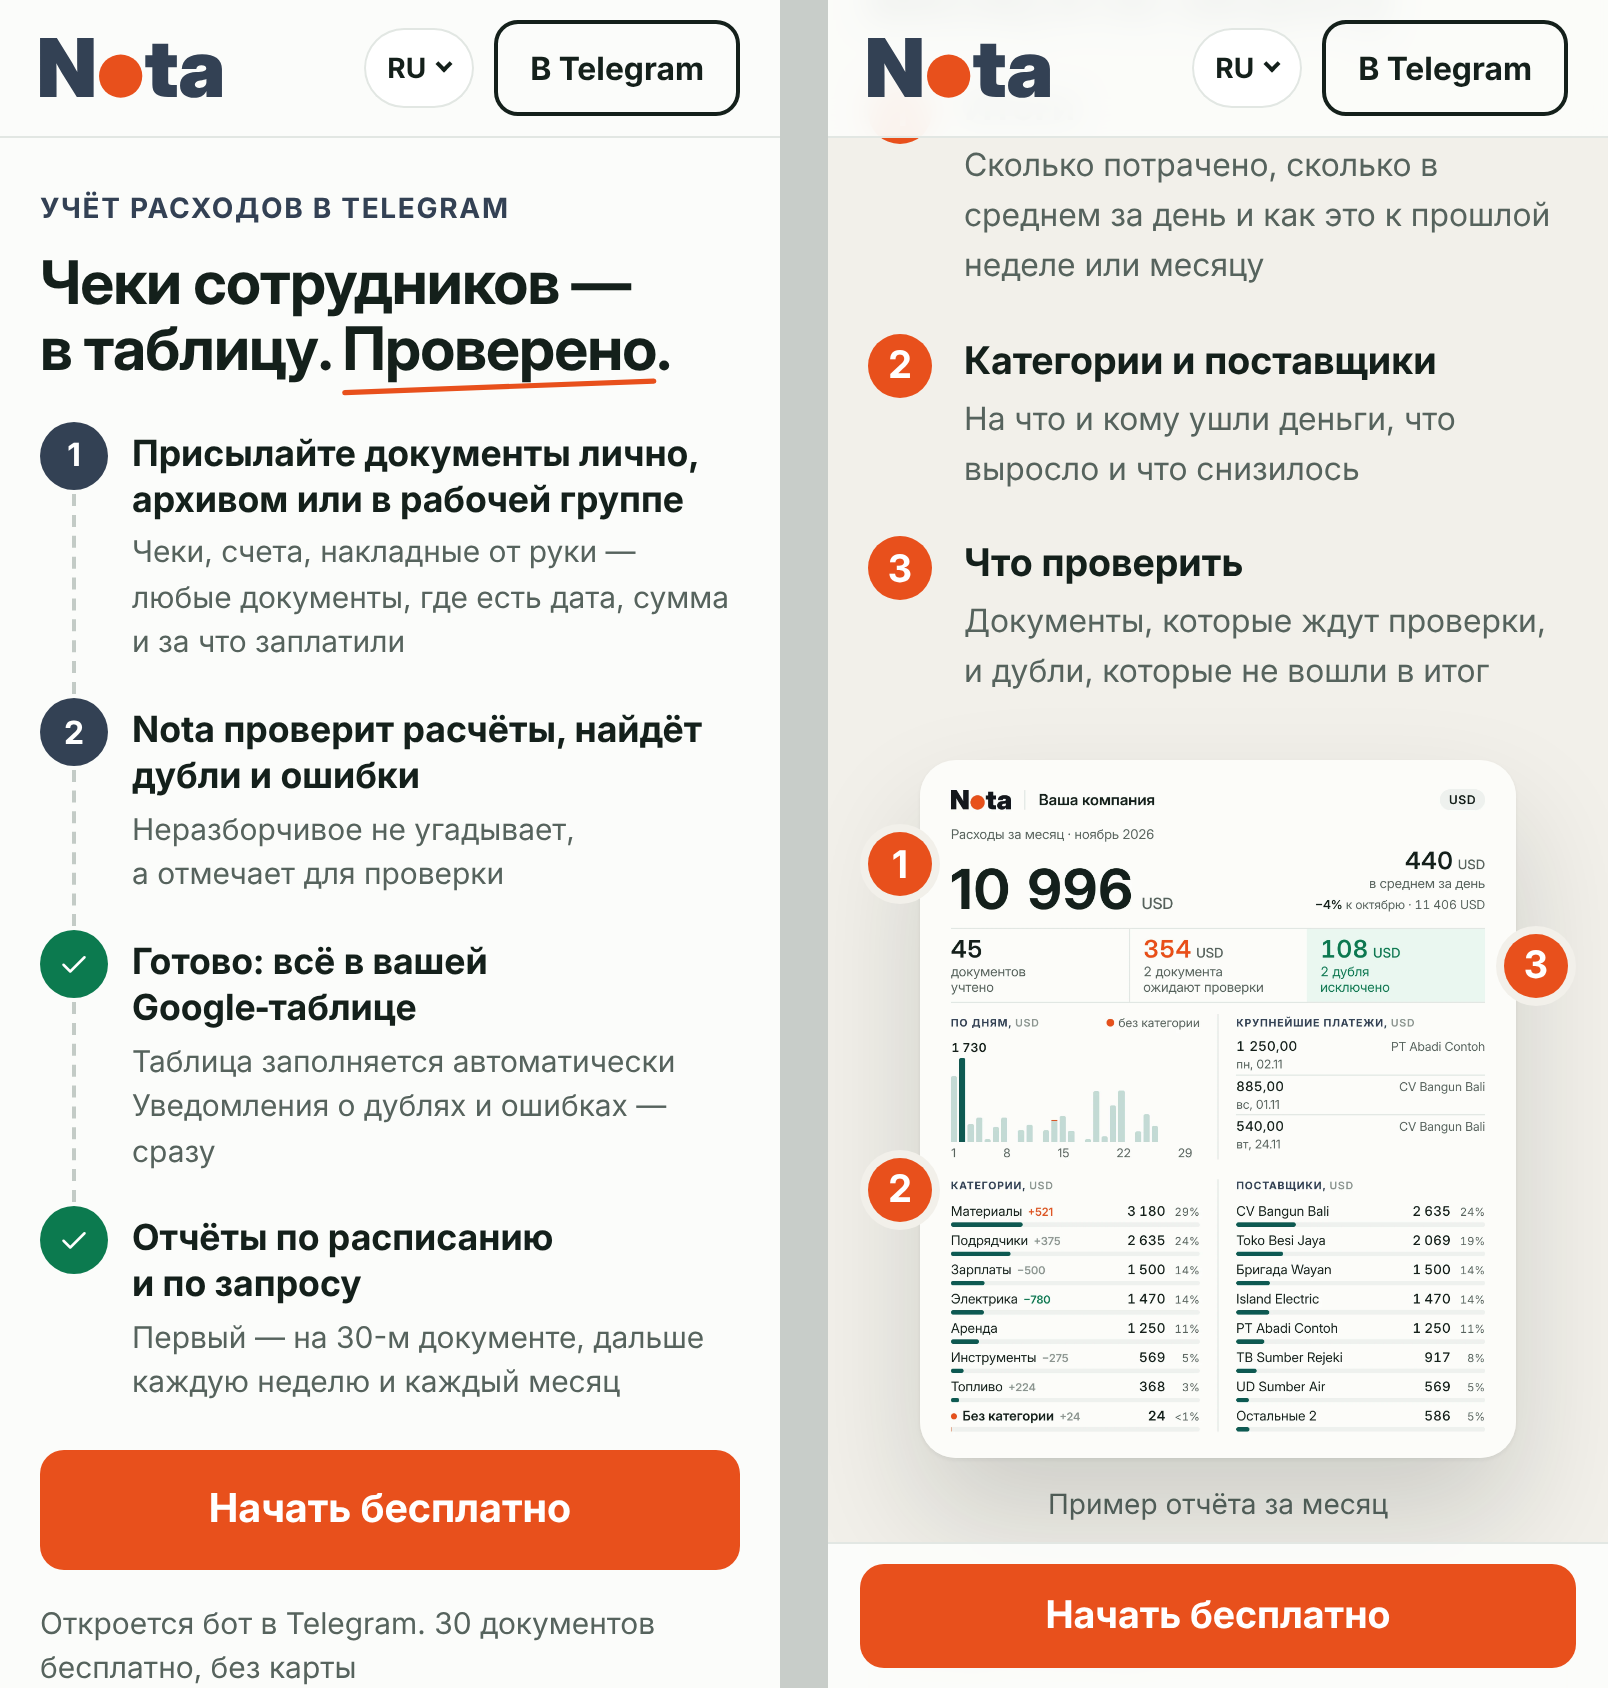
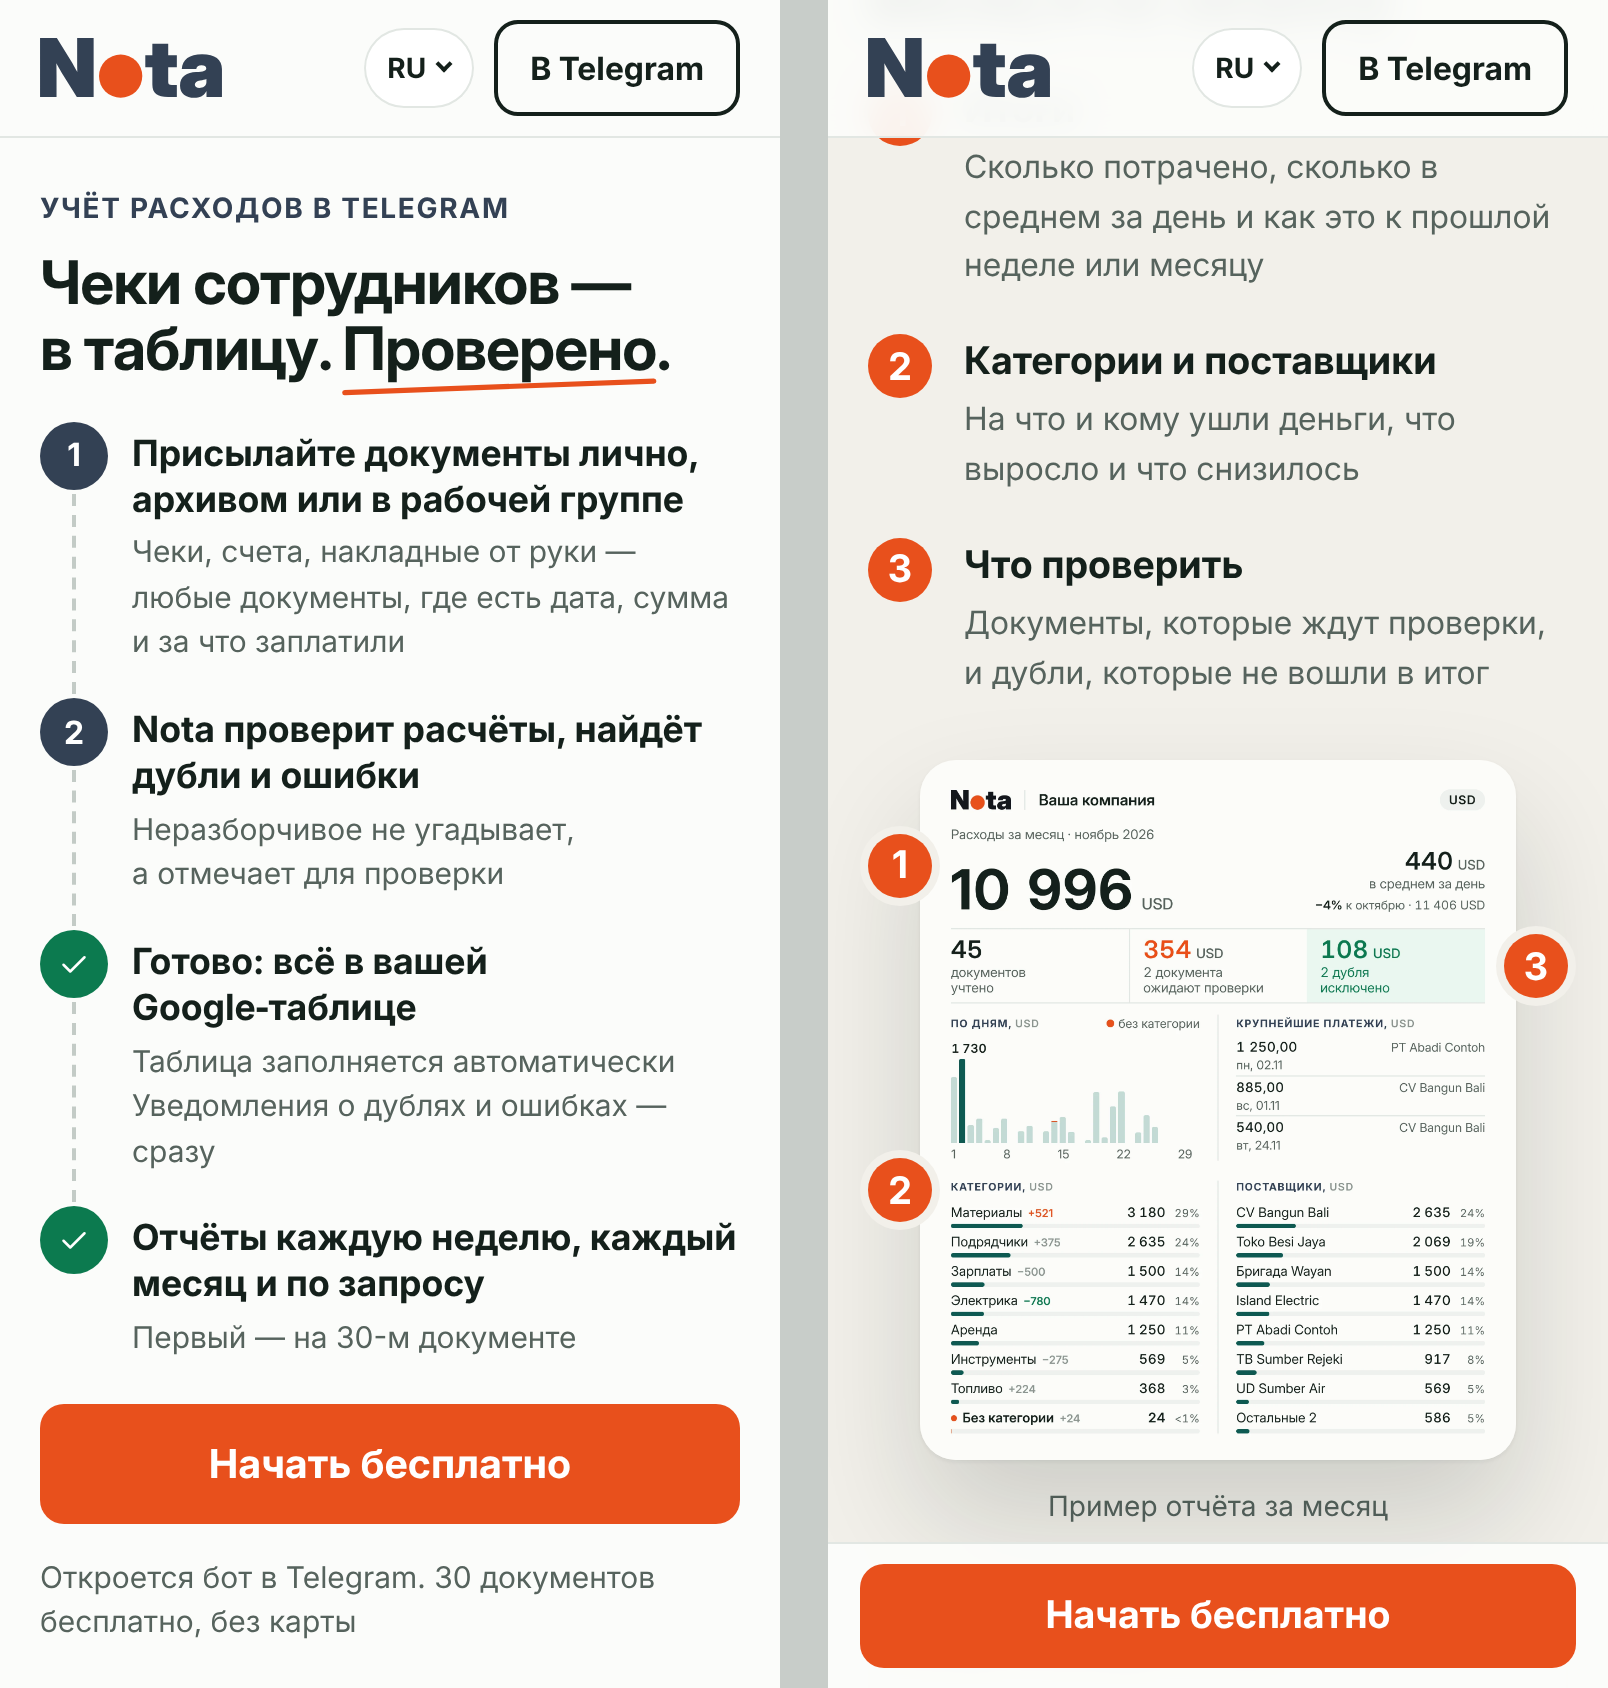
Landing v12 start: 'Отчёты каждую неделю, каждый месяц и по запросу'
Claude-Session: https://claude.ai/code/session_01L3HhR7LSGwJtypFbeUeh92

diff --git a/nota/src/data/content-v12.ts b/nota/src/data/content-v12.ts
@@ -24,8 +24,8 @@ export const start = {
     { mark: 'ok', title: 'Готово: всё в\u00a0вашей Google\u2011таблице',
       lines: ['Таблица заполняется автоматически', 'Уведомления о\u00a0дублях и\u00a0ошибках\u00a0— сразу'] },
     // Основатель 22.11: отчёты — отдельным пунктом после «Готово»
-    { mark: 'ok', title: 'Отчёты по\u00a0расписанию и\u00a0по\u00a0запросу',
-      lines: ['Первый\u00a0— на\u00a030-м документе, дальше каждую неделю и\u00a0каждый месяц'] },
+    { mark: 'ok', title: 'Отчёты каждую неделю, каждый месяц и\u00a0по\u00a0запросу',
+      lines: ['Первый\u00a0— на\u00a030-м документе'] },
   ],
   ctaLine: 'Откроется бот в Telegram. 30 документов бесплатно, без карты',
   // Отчёт за месяц, тестовые данные (founder/landing-start-sketch/month-report.py): ноябрь по 25-е, доллары

diff --git a/founder/landing-v12-notes.md b/founder/landing-v12-notes.md
@@ -23,7 +23,7 @@
   1. «Присылайте документы лично, архивом или в рабочей группе» — «Чеки, счета, накладные от руки — любые документы, где есть дата, сумма и за что заплатили».
   2. «Nota проверит расчёты, найдёт дубли и ошибки» — «Неразборчивое не угадывает, а отмечает для проверки».
   3. «Готово: всё в вашей Google-таблице» — таблица заполняется автоматически, уведомления о дублях и ошибках сразу.
-  4. «Отчёты по расписанию и по запросу» — «Первый — на 30-м документе, дальше каждую неделю и каждый месяц» (отдельным пунктом, основатель 22.11).
+  4. «Отчёты каждую неделю, каждый месяц и по запросу» — «Первый — на 30-м документе» (отдельным пунктом, формулировка основателя 22.11).
   - Все строки одного вида: кружок, жирная строка, серые подписи, одна пунктирная линия. Убраны метки способов, реакция ✍ и зелёная заливка «Готово».
   - Тексты взяты из варианта, который лучше всех прошёл панель (5 из 20). Промежуточная версия без пути (подзаголовок и три пункта) не проверялась на панели и отменена.
   - Под кнопкой: «Откроется бот в Telegram. 30 документов бесплатно, без карты».
